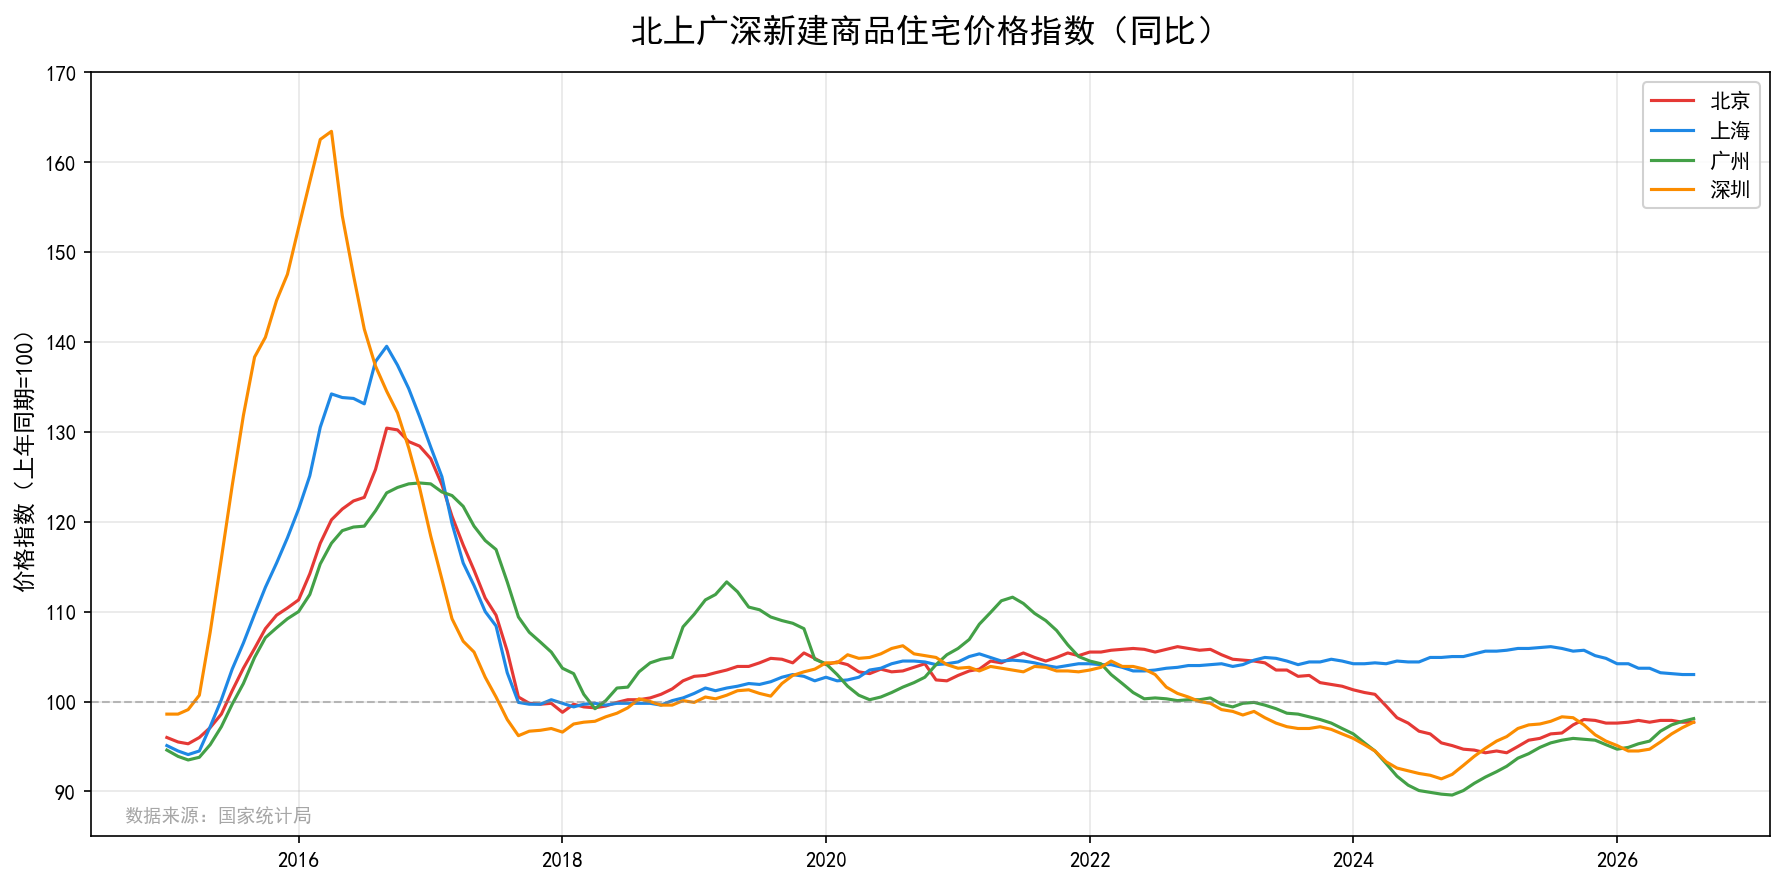
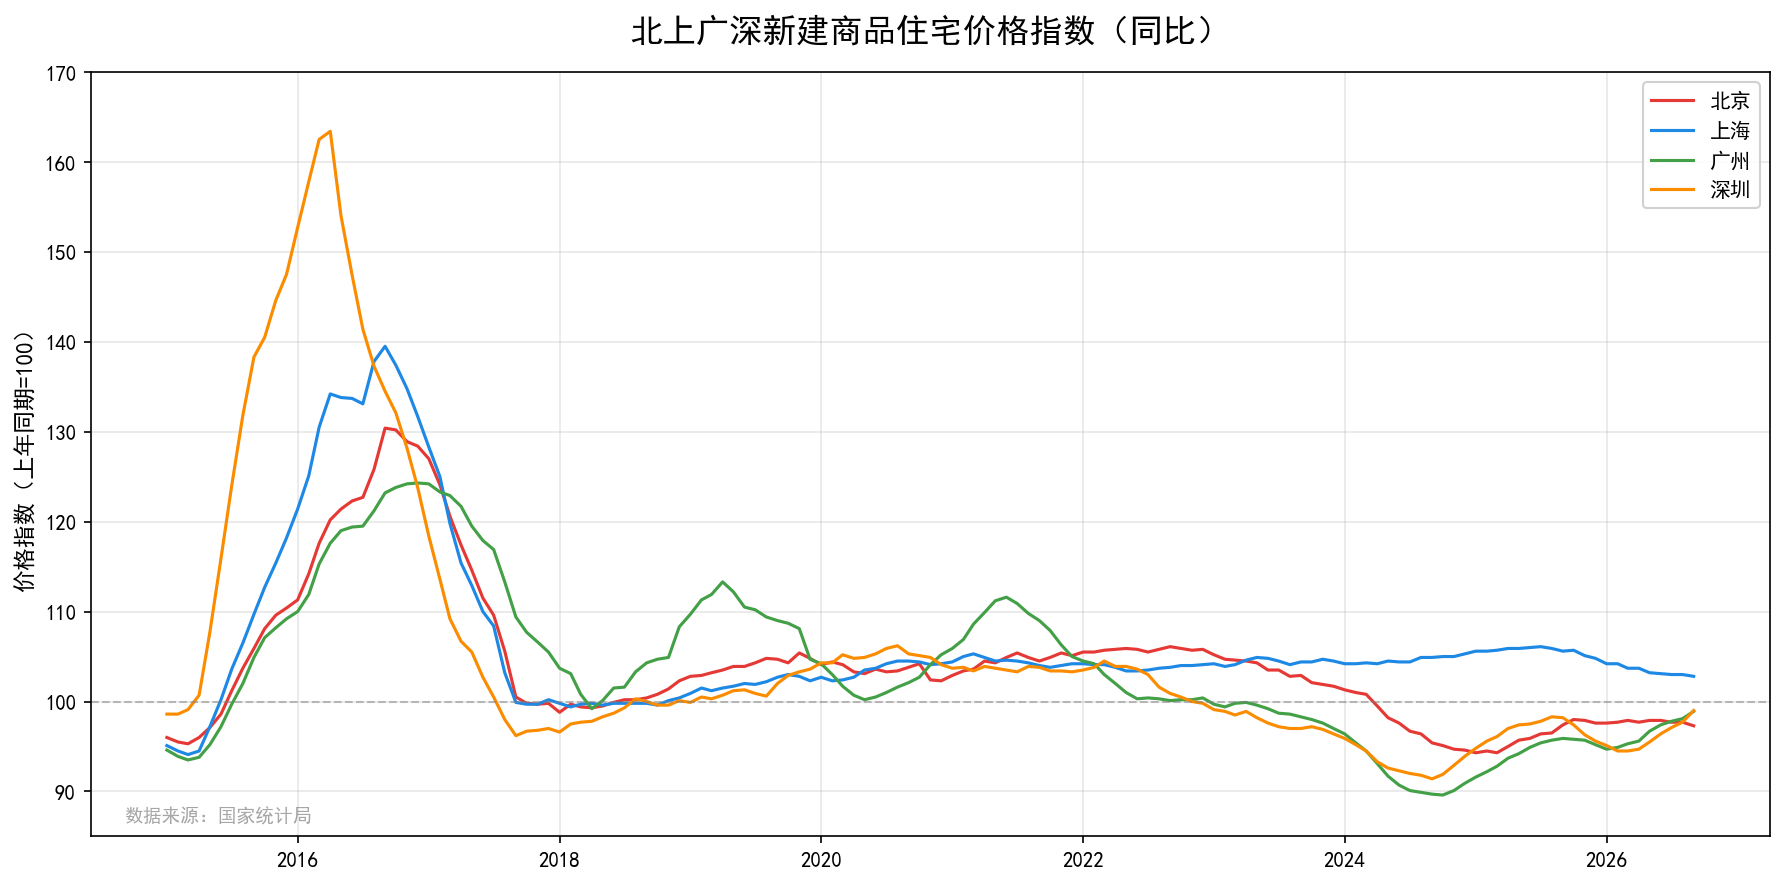
chore(数据): 更新70城房价数据至2026年9月
按国家统计局发布页追加2026年9月数据，并同步仓库派生产物：

- 新增70城共210条记录，保留历史记录及CSV写回格式。
- 更新README两处月份标记，并重绘北上广深走势图。

数据来源：https://www.stats.gov.cn/sj/zxfbhjd/202610/t20261019_1965609.html

diff --git a/README.md b/README.md
@@ -1,6 +1,6 @@
 # 70城房价数据 | China 70-City House Price Index
 
-[![数据更新](https://img.shields.io/badge/数据更新至-2026年8月-blue)]()
+[![数据更新](https://img.shields.io/badge/数据更新至-2026年9月-blue)]()
 [![城市数量](https://img.shields.io/badge/城市-70个大中城市-green)]()
 [![时间跨度](https://img.shields.io/badge/时间跨度-2006至今-orange)]()
 [![License: MIT](https://img.shields.io/badge/license-MIT-lightgrey)](./LICENSE)
@@ -57,7 +57,7 @@
 
 ```
 70cityprice/
-├── 70cityprice.csv         # 主数据文件（2006年至今，当前更新至2026年8月）
+├── 70cityprice.csv         # 主数据文件（2006年至今，当前更新至2026年9月）
 ├── README.md               # 项目说明文档（面向人类读者）
 ├── SKILL.md                # AI 协作入口：数据心智模型与流程索引
 ├── AGENTS.md               # 仓库级 AI 说明（CLAUDE.md 导入此文件）
